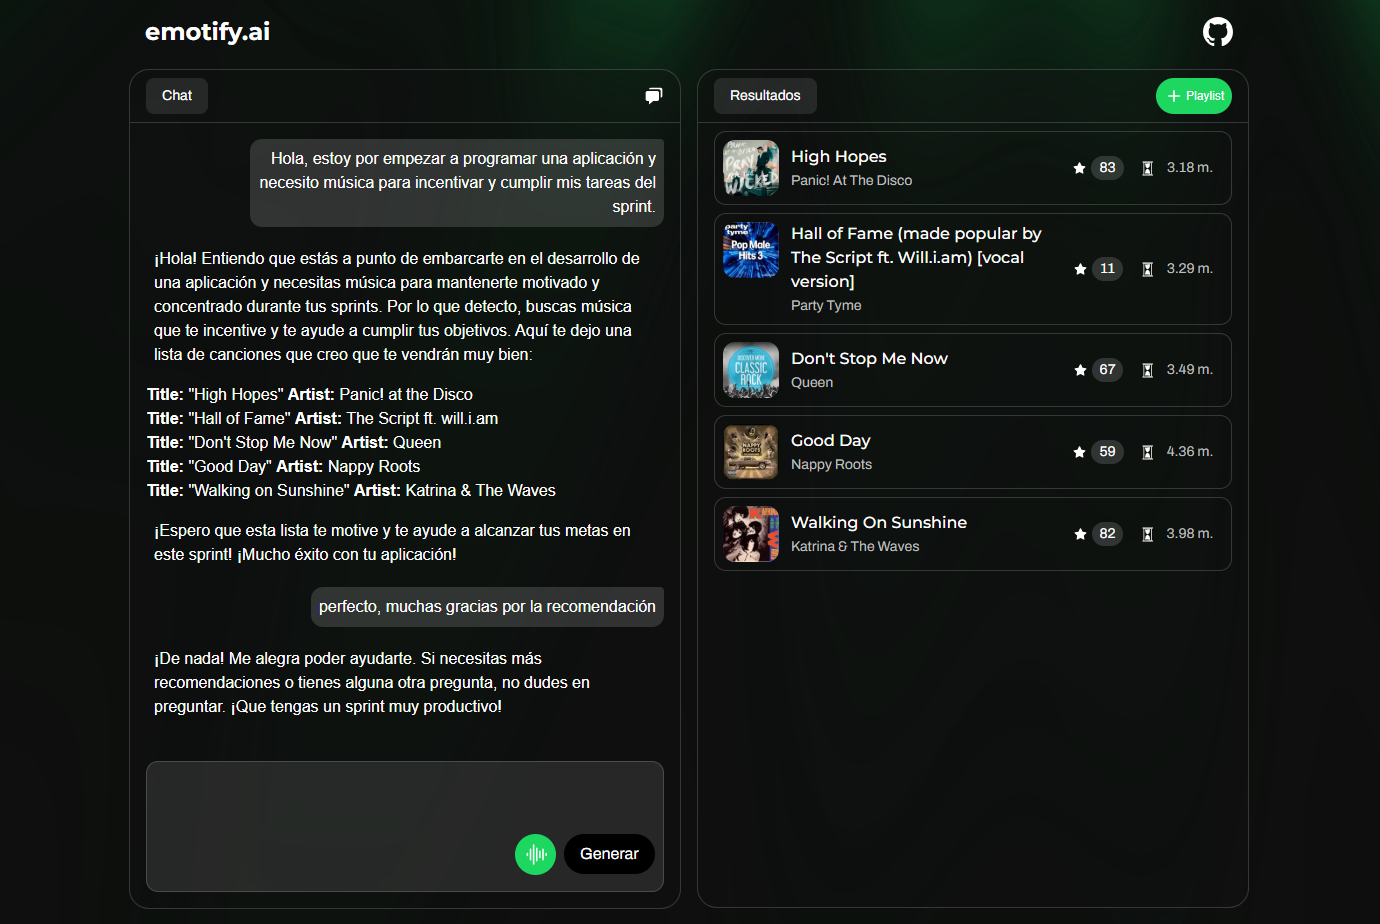
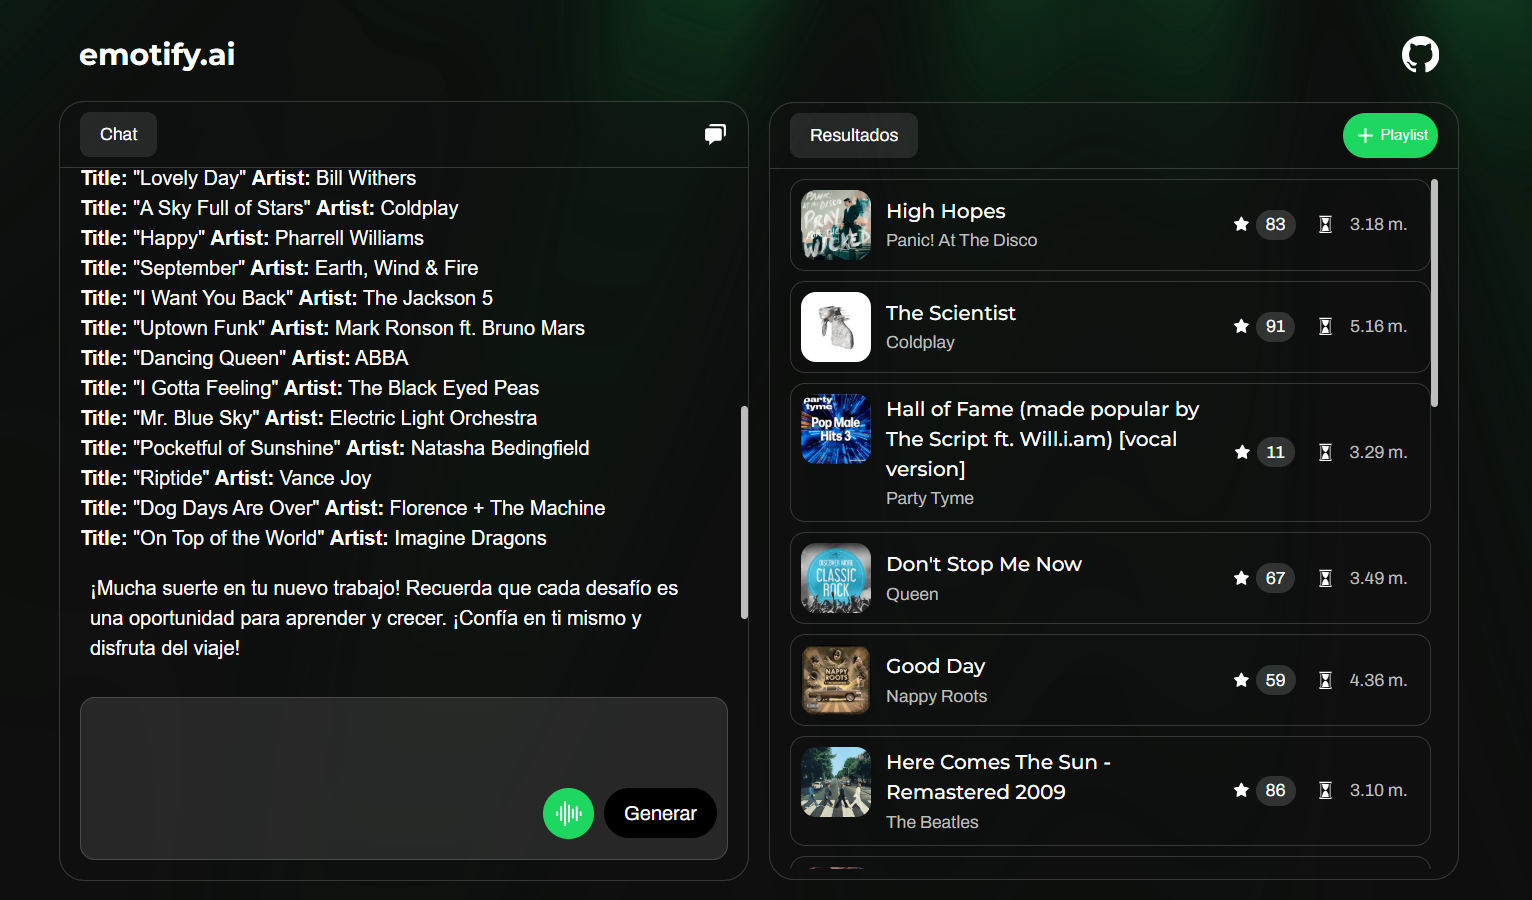
chore: the flow works correctly in develop environment

diff --git a/src/app/create-playlist/page.tsx b/src/app/create-playlist/page.tsx
@@ -4,9 +4,10 @@ import { useState, useEffect } from "react";
 import axios from "axios";
 import Logo from "@/components/logo";
 import { User, DataForCreatePlaylist, LoadingStates } from "@/lib/types";
-import { config } from "@/config/config";
+import { useRouter } from "next/navigation";
 
 export default function CreatePlaylist() {
+	const router = useRouter();
 	const [dataForCreatePlaylist, setDataForCreateList] = useState<DataForCreatePlaylist>({
 		name: "",
 		description: "",
@@ -20,25 +21,23 @@ export default function CreatePlaylist() {
 	const [user, setUser] = useState<User>();
 
 	const createPlaylist = async (user_id: string, name: string, description: string) => {
-		if (!user_id || !name) {
-			const res = await axios.post(`${config.baseUrl}/api/playlist/create`, {
-				user_id: user_id,
-				name: name,
-				description: description,
-			});
-			return res.data;
-		}
+		const res = await axios.post("/api/playlist/create", {
+			user_id: user_id,
+			name: name,
+			description: description,
+		});
+		return res.data;
 	}
 
 	const addSongsToPlaylist = async (playlistId: string, songs: string[]) => {
-		await axios.post(`${config.baseUrl}/api/playlist/add-songs`, {
+		await axios.post("/api/playlist/add-songs", {
 			playlist_id: playlistId,
 			songs: songs,
 		});
 	}
 
 	const handleOnSubmit = async () => {
-		if (dataForCreatePlaylist.name.trim() === "" || dataForCreatePlaylist.description.trim() || !user?.id) {
+		if (dataForCreatePlaylist.name.trim() === "" || dataForCreatePlaylist.description.trim() === "" || !user?.id) {
 			return;
 		}
 		try {
@@ -54,6 +53,9 @@ export default function CreatePlaylist() {
 			}))
 			await addSongsToPlaylist(playlistId, songs);
 			localStorage.removeItem("songs");
+			setTimeout(() => {
+				router.replace("/")
+			}, 100);
 		} catch (error) {
 			console.error("Error creating playlist or adding songs:", error);
 		} finally {
@@ -73,12 +75,12 @@ export default function CreatePlaylist() {
 				setSongs(data);
 			}
 		}
-	}, [songs]);
+	}, []);
 
 	useEffect(() => {
 		const fetchUser = async () => {
 			try {
-				const res = await axios.get(`${config.baseUrl}/api/me`);
+				const res = await axios.get("/api/me");
 				setUser(res.data);
 			} catch (error) {
 				console.error("Error fetching user:", error);
@@ -109,6 +111,10 @@ export default function CreatePlaylist() {
 				{
 					user && user.id && (
 						<div className="shadow-2xl shadow-black/20 dark:shadow-white/20 max-w-md w-full p-4 flex flex-col items-center gap-6 border border-gray-light dark:border-gray-light-opacity/20 rounded-xl bg-background/30 backdrop-blur-sm">
+							<div className="w-full flex flex-col items-center">
+								<p className="font-montserrat text-center font-medium">Hola {user.display_name}</p>
+								<p className="font-archivo text-center text-sm text-gray dark:text-gray-light">{user.email}</p>
+							</div>
 							<h1 className="font-montserrat font-semibold text-center text-xl">
 								Crear playlist y añadir las canciones recomendadas
 							</h1>
@@ -128,7 +134,7 @@ export default function CreatePlaylist() {
 							/>
 							<textarea
 								id="playlist-description"
-								className="text-archivo w-full p-2 rounded-md bg-transparent border border-gray-light dark:border-gray-light-opacity/20 scrollbar-hide"
+								className="resize-none text-archivo w-full p-2 rounded-md bg-transparent border border-gray-light dark:border-gray-light-opacity/20 scrollbar-hide"
 								placeholder="Descripción de la playlist 🚀"
 								value={dataForCreatePlaylist.description}
 								onChange={(event) => {

diff --git a/src/app/api/playlist/add-songs/route.ts b/src/app/api/playlist/add-songs/route.ts
@@ -5,13 +5,15 @@ import { refreshAccessToken } from "@/lib/utils";
 
 const addSongsToPlaylist = async (
   token: string,
-  playlist_id: string,
+  playlist_id: {
+    id: string;
+  },
   songs: string[]
 ) => {
   await axios.post(
-    `https://api.spotify.com/v1/playlists/${playlist_id}/tracks`,
+    `https://api.spotify.com/v1/playlists/${playlist_id.id}/tracks`,
     {
-      uris: songs.join(","),
+      uris: songs,
     },
     {
       headers: {
@@ -24,6 +26,16 @@ const addSongsToPlaylist = async (
 
 export async function POST(req: Request) {
   const { playlist_id, songs } = await req.json();
+  if (!playlist_id || !songs) {
+    return NextResponse.json(
+      {
+        error: "playlist_id_or_songs_not_found",
+      },
+      {
+        status: 401,
+      }
+    );
+  }
   const cookieStore = await cookies();
   const access_token = cookieStore.get("spotify_access_token")?.value;
   const refresh_token = cookieStore.get("spotify_refresh_token")?.value;
@@ -41,6 +53,14 @@ export async function POST(req: Request) {
 
   try {
     await addSongsToPlaylist(access_token, playlist_id, songs);
+    return NextResponse.json(
+      {
+        message: "Playlist created successfully.",
+      },
+      {
+        status: 200,
+      }
+    );
   } catch (error) {
     const status = axios.isAxiosError(error) ? error.response?.status : null;
     if (status === 401 && refresh_token) {
@@ -58,6 +78,14 @@ export async function POST(req: Request) {
 
       try {
         await addSongsToPlaylist(newAccessToken, playlist_id, songs);
+        return NextResponse.json(
+          {
+            message: "Playlist created successfully.",
+          },
+          {
+            status: 200,
+          }
+        );
       } catch (error) {
         console.error("Error after token refresh:", error);
         return NextResponse.json(
@@ -72,7 +100,7 @@ export async function POST(req: Request) {
     }
     return NextResponse.json(
       {
-        error: "No se logró crear la playlist.",
+        error: "No se logró añadir las canciones a la playlist.",
       },
       {
         status: 500,

diff --git a/src/app/music/[id]/page.tsx b/src/app/music/[id]/page.tsx
@@ -20,7 +20,7 @@ export default function Music() {
 	});
 	
 	const [currentRecommendedSongs, setCurrentRecommendedSongs] = useState<SongDetail[]>([]);
-	const [showSpotifyResults, setShowSpotifyResults] = useState<boolean>(true);
+	const [showSpotifyResults, setShowSpotifyResults] = useState<boolean>(false);
 	const [initialChatSent, setInitialChatSent] = useState<boolean>(false);
 
 	const handleLogin = () => {
@@ -28,7 +28,9 @@ export default function Music() {
 			return item.uri
 		});
 		localStorage.setItem("songs", JSON.stringify(listuris));
-		window.location.href = "/api/auth";
+		setTimeout(() => {
+			window.location.href = "/api/auth";
+		}, 100);
 	}
 
 	useEffect(() => {
@@ -109,7 +111,7 @@ export default function Music() {
 					</div>
 				</div>
 				{
-					showSpotifyResults && currentRecommendedSongs.length === 0 && (
+					showSpotifyResults && currentRecommendedSongs.length > 0 && (
 						<div className="w-full flex flex-col border border-gray-light dark:border-gray-light-opacity/20 rounded-[20px] bg-background/30">
 							<div className="w-full flex flex-row items-center justify-between gap-2 px-4 py-2 border-b border-gray-light dark:border-gray-light-opacity/20">
 								<span className="font-archivo text-black dark:text-white text-sm px-4 py-2 bg-gray/20 rounded-lg">Resultados</span>

diff --git a/src/app/api/chat/route.ts b/src/app/api/chat/route.ts
@@ -21,7 +21,7 @@ export async function POST(req: NextRequest) {
       "You must detect the emotion of the user and select the songs that match the emotion. " +
       "You must show the user what emotions you detected and the songs you selected. " +
       "The response must be in markdown format. " +
-      "After providing the initial message about the user's situation and detected emotions, you MUST call the 'getSpotifySongsDetails' tool with a 'data' array containing the 'title' and 'artist' for each of the 20 recommended songs. DO NOT output the detailed song information (like ID, duration, popularity, image URL) directly in text or JSON format within your conversational response. The frontend will handle displaying the Spotify details.",
+      "After providing the initial message about the user's situation and detected emotions, you MUST call the 'getSpotifySongsDetails' tool with a 'data' array containing the 'title' and 'artist' for each of the 5 recommended songs. DO NOT output the detailed song information (like ID, duration, popularity, image URL) directly in text or JSON format within your conversational response. The frontend will handle displaying the Spotify details.",
     temperature: 0.3,
     maxRetries: 3,
     messages,

diff --git a/src/config/config.ts b/src/config/config.ts
@@ -1,10 +1,4 @@
-"use server";
-
-const localhost = "127.0.0.1:3000";
-const production = "https://emotifyai.vercel.app";
-
-const isProduction = process.env.NODE_ENV === "production";
-const baseUrl = isProduction ? production : localhost;
+const baseUrl = "127.0.0.1:3000";
 
 export const config = {
   baseUrl,

diff --git a/src/app/api/playlist/create/route.ts b/src/app/api/playlist/create/route.ts
@@ -37,7 +37,6 @@ export async function POST(req: Request) {
   const cookieStore = await cookies();
   const access_token = cookieStore.get("spotify_access_token")?.value;
   const refresh_token = cookieStore.get("spotify_refresh_token")?.value;
-
   if (!access_token) {
     return NextResponse.json(
       {
